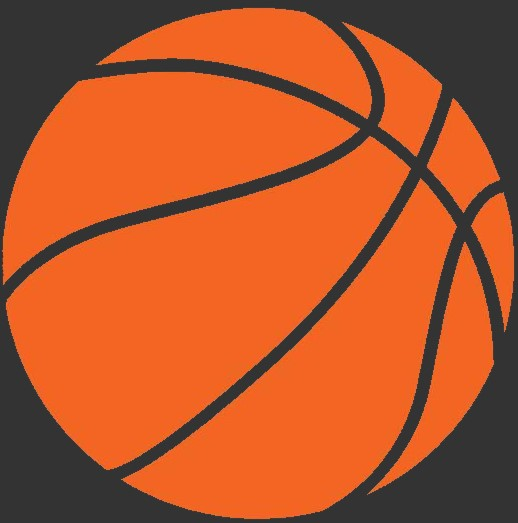
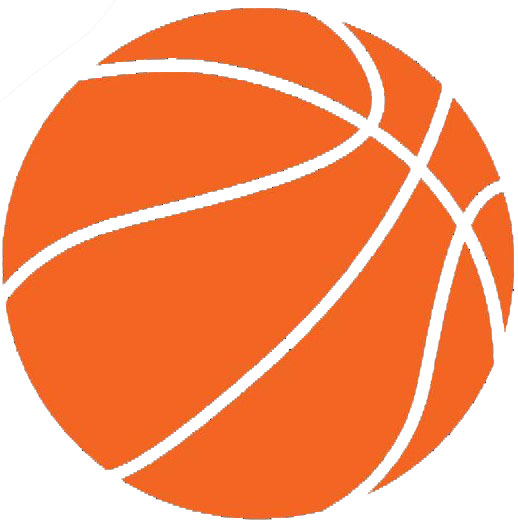
annimation css

diff --git a/API/APIScoreKeeperSolution/APIScoreKeeper/PageCss.css b/API/APIScoreKeeperSolution/APIScoreKeeper/PageCss.css
@@ -1,19 +1,91 @@
 body {
-    background-color: azure;
+    -webkit-animation-name: example; /* Safari 4.0 - 8.0 */
+    -webkit-animation-duration: 30s; /* Safari 4.0 - 8.0 */
+    -webkit-animation-iteration-count: infinite;
+    -webkit-animation-direction: alternate;
+
+    animation-name: example;
+    animation-duration: 30s;
+    animation-iteration-count: infinite;
+    animation-direction: alternate;
+    background-color: white;
+}
+
+@-webkit-keyframes example {
+  0% {background-color:   rgba(255, 0, 0, 0.3);}
+4% {background-color: 	rgba(255, 64, 0, 0.3);}
+8% {background-color: 	rgba(255, 128, 0, 0.3);}
+12% {background-color:  rgba(255, 191, 0, 0.3)}
+16% {background-color:  rgba(255, 255, 0, 0.3);}
+20% {background-color: 	rgba(191, 255, 0, 0.3);}
+24% {background-color: 	rgba(128, 255, 0, 0.3);}
+28% {background-color:  rgba(64, 255, 0, 0.3);}
+32% {background-color: 	rgba(0, 255, 0, 0.3);}
+36% {background-color: 	rgba(0, 255, 64, 0.3);}
+40% {background-color: 	rgba(0, 255, 128, 0.3);}
+44% {background-color: 	rgba(0, 255, 191, 0.3);}
+48% {background-color:  rgba(0, 255, 255, 0.3);}
+52% {background-color: 	rgba(0, 191, 255, 0.3);}
+56% {background-color: 	rgba(0, 128, 255, 0.3);}
+60% {background-color: 	rgba(0, 64, 255, 0.3);}
+64% {background-color:	rgba(0, 0, 255, 0.3);}
+68% {background-color: 	rgba(64, 0, 255, 0.3);}
+72% {background-color: 	rgba(128, 0, 255, 0.3);}
+76% {background-color: 	rgba(191, 0, 255, 0.3);}
+80% {background-color: 	rgba(255, 0, 255, 0.3);}
+84% {background-color: 	rgba(255, 0, 191, 0.3);}
+88% {background-color: 	rgba(255, 0, 128, 0.3);}
+92% {background-color: 	rgba(255, 0, 64, 0.3);}
+96% {background-color: 	rgba(255, 0, 0, 0.3);}
+100% {background-color: rgba(255, 0, 0, 0.3);}
+
+}
+
+/* Standard syntax */
+@keyframes example {
+ 0% {background-color:   rgba(255, 0, 0, 0.3);}
+4% {background-color: 	rgba(255, 64, 0, 0.3);}
+8% {background-color: 	rgba(255, 128, 0, 0.3);}
+12% {background-color:  rgba(255, 191, 0, 0.3)}
+16% {background-color:  rgba(255, 255, 0, 0.3);}
+20% {background-color: 	rgba(191, 255, 0, 0.3);}
+24% {background-color: 	rgba(128, 255, 0, 0.3);}
+28% {background-color:  rgba(64, 255, 0, 0.3);}
+32% {background-color: 	rgba(0, 255, 0, 0.3);}
+36% {background-color: 	rgba(0, 255, 64, 0.3);}
+40% {background-color: 	rgba(0, 255, 128, 0.3);}
+44% {background-color: 	rgba(0, 255, 191, 0.3);}
+48% {background-color:  rgba(0, 255, 255, 0.3);}
+52% {background-color: 	rgba(0, 191, 255, 0.3);}
+56% {background-color: 	rgba(0, 128, 255, 0.3);}
+60% {background-color: 	rgba(0, 64, 255, 0.3);}
+64% {background-color:	rgba(0, 0, 255, 0.3);}
+68% {background-color: 	rgba(64, 0, 255, 0.3);}
+72% {background-color: 	rgba(128, 0, 255, 0.3);}
+76% {background-color: 	rgba(191, 0, 255, 0.3);}
+80% {background-color: 	rgba(255, 0, 255, 0.3);}
+84% {background-color: 	rgba(255, 0, 191, 0.3);}
+88% {background-color: 	rgba(255, 0, 128, 0.3);}
+92% {background-color: 	rgba(255, 0, 64, 0.3);}
+96% {background-color: 	rgba(255, 0, 0, 0.3);}
+100% {background-color: rgba(255, 0, 0, 0.3);}
 }
 
 *, *:before, *:after {
     box-sizing: border-box;
 }
 
-h1{
-    margin:5px;
+h1 {
+    margin: 5px;
+    text-shadow: 2px 2px 5px #3db6e6;
 }
 
 .block1 {
     width: 400px;
     height: 600px;
-    background-color: #333333;
+    /*background-color: #333333;*/
+    background: linear-gradient(to bottom, #333333, #3db6e6);
+    border-radius: 5px;
     color: white;
     padding: 5px;
 }
@@ -25,10 +97,29 @@ table, th {
 
 .image {
     margin-top: 20px;
-
 }
 
 .img {
     width: 100%;
     height: auto;
 }
+
+.tooltip {
+    position: relative;
+    display: inline-block;
+}
+
+    .tooltip .tooltiptext {
+        visibility: hidden;
+        width: 120px;
+        background-color: black;
+        color: #fff;
+        text-align: center;
+        border-radius: 6px;
+        padding: 5px 0;
+        /* Position the tooltip */
+        position: absolute;
+        z-index: 1;
+        top: -5px;
+        left: 105%;
+    }

diff --git a/API/APIScoreKeeperSolution/APIScoreKeeper/HtmlPage1.html b/API/APIScoreKeeperSolution/APIScoreKeeper/HtmlPage1.html
@@ -20,14 +20,18 @@
 </head>
 
 <body>
+    <div class="tooltip">
+        <span class="tooltiptext">Tooltip text</span>
+    </div>
     <div class="block1">
+      
         <h1 title="Scores">All Scores</h1>
         <!--<ul id="scores" />-->
         <div id="table">
             <table id="myTable"></table>
         </div>
         <div class="image">
-            <img class="img" src="images/bascket.jpg" alt="bascket">
+            <img class="img" src="images/bascket.png" alt="bascket">
         </div>
     </div>
     <script src="javascript.js"></script>
